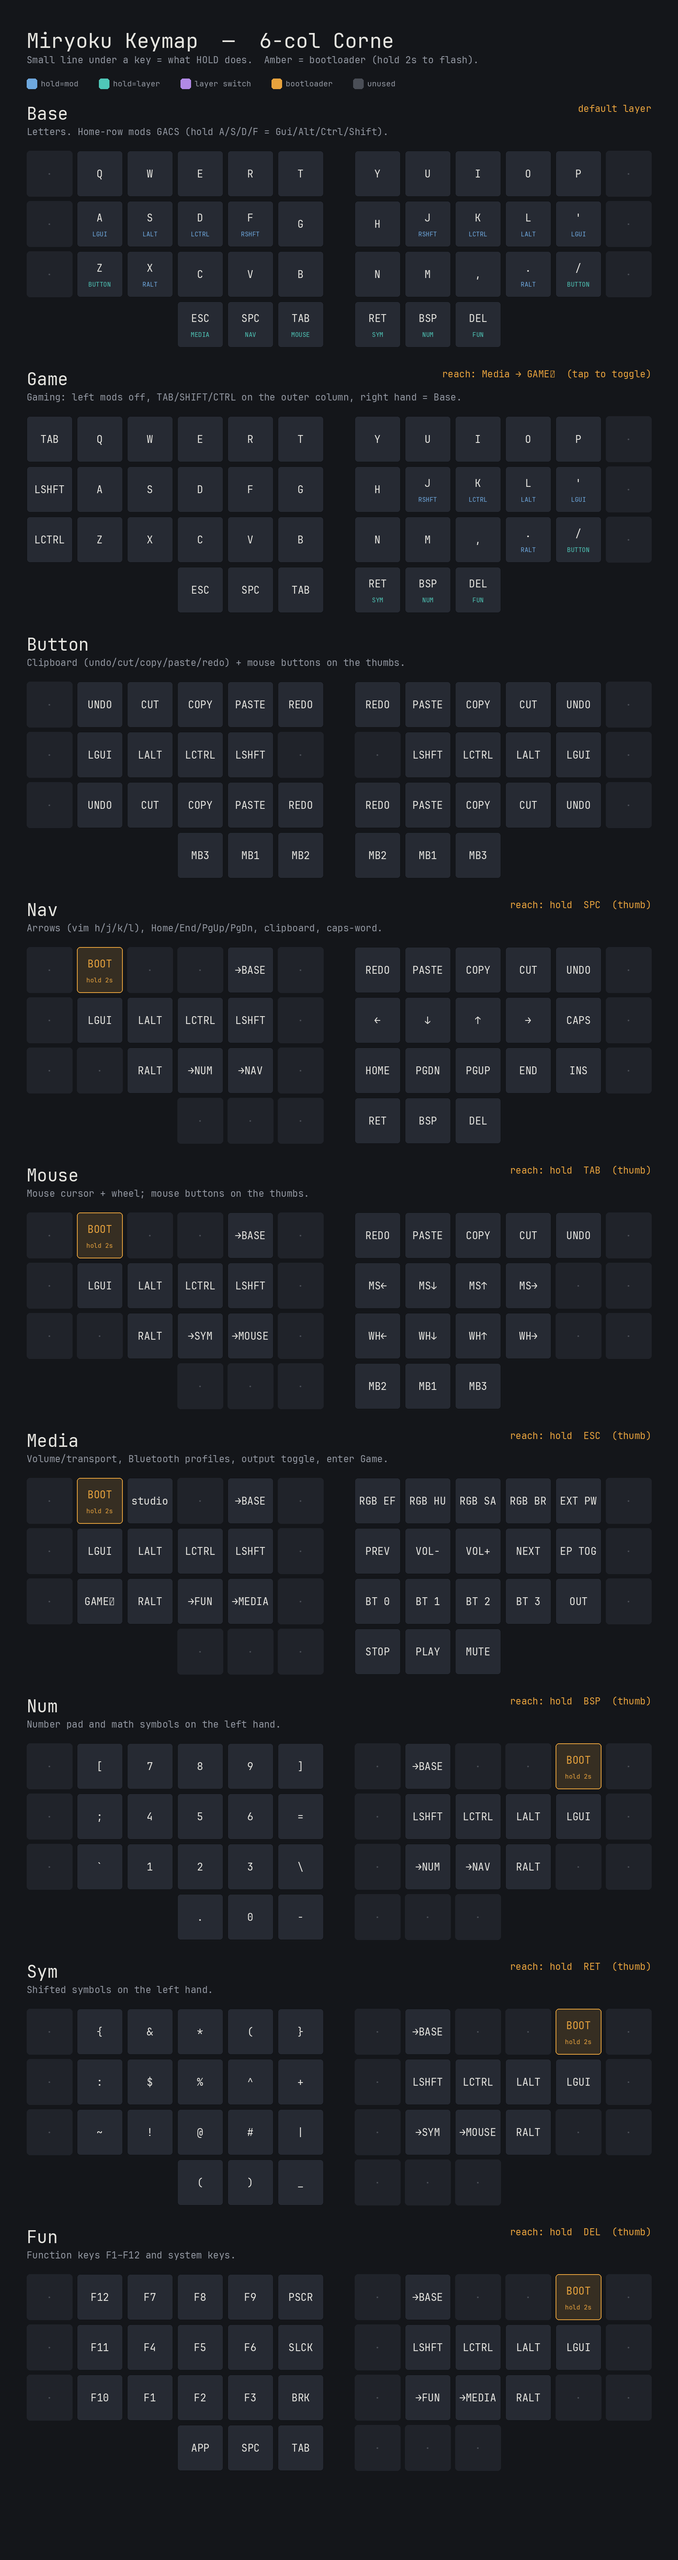
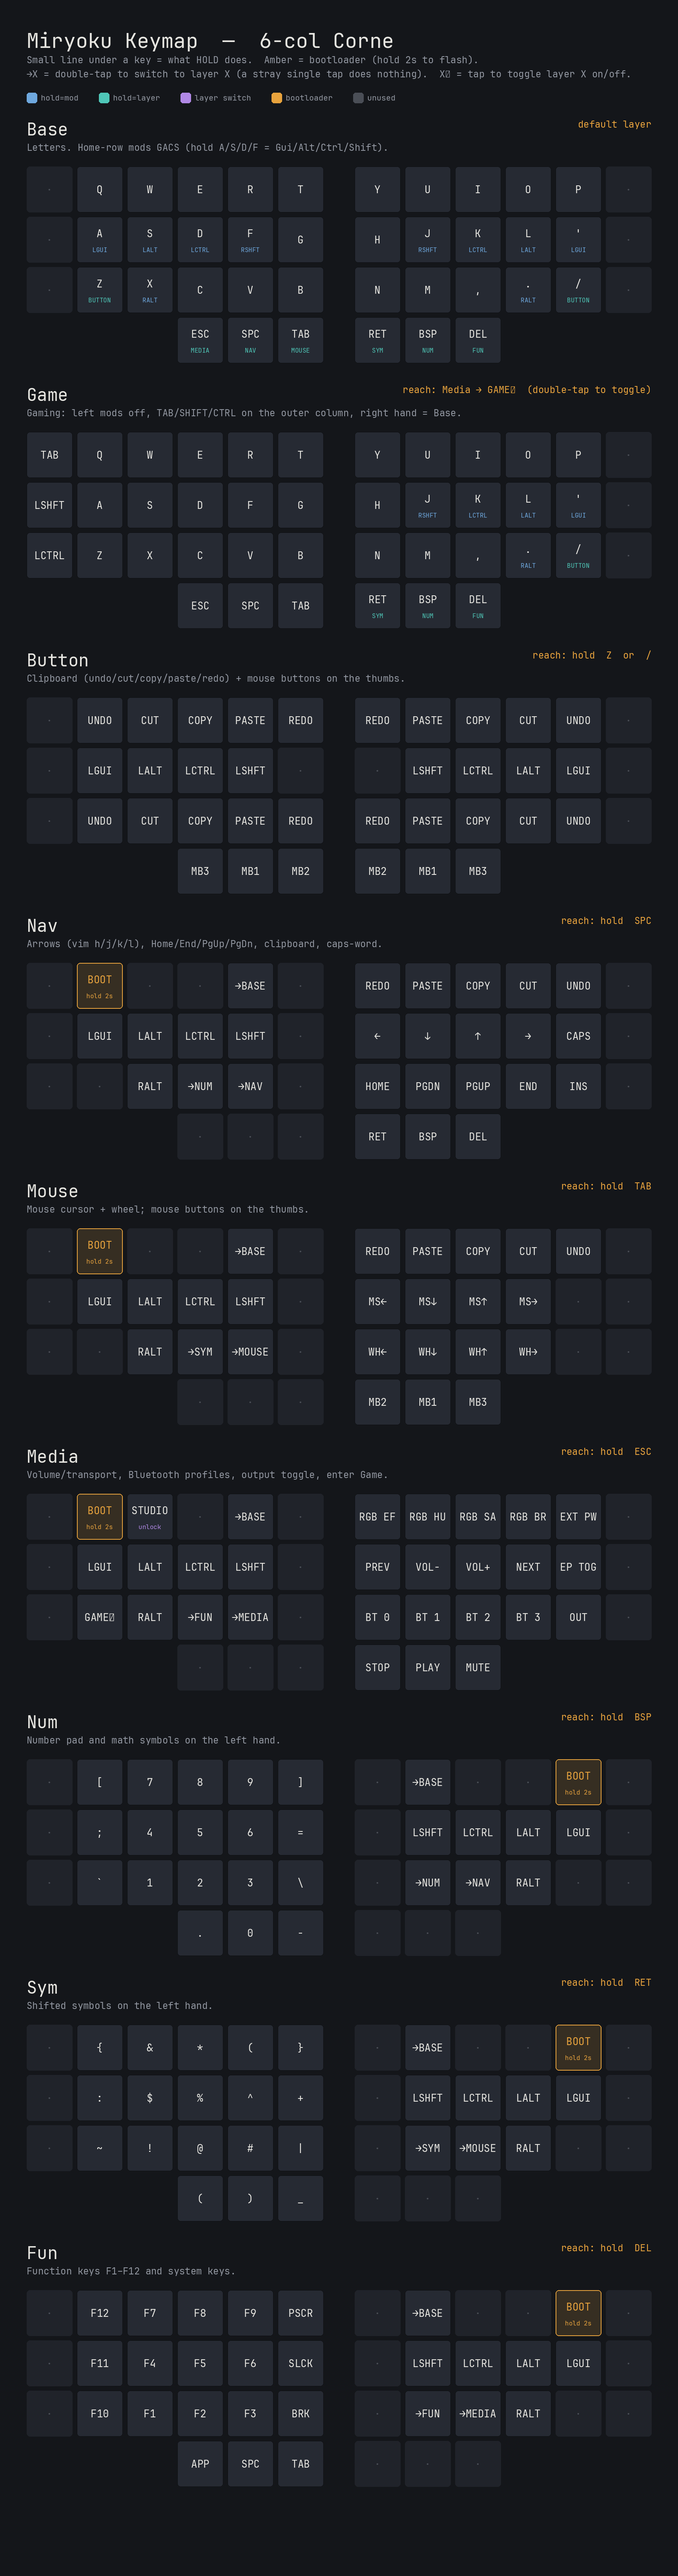
Diagram/README: explain ->X (double-tap) & X-toggle; show Button reach
base_reach now scans all Base &u_lt bindings, not just thumbs, so hold-Z/hold-/
BUTTON access shows up. Add symbol legend to the diagram and README.

diff --git a/scripts/generate_keymap_layout.py b/scripts/generate_keymap_layout.py
@@ -175,16 +175,16 @@ def tokenize(body):
     return toks
 
 def base_reach(base_toks, idx):
-    """From Base's 6 thumb bindings, map layer-index -> reaching key label.
-    Base row layout is 12+12+12+6; thumbs are the last 6 tokens."""
-    thumbs = base_toks[36:42]
+    """From every Base &u_lt binding (thumbs AND home keys like Z/SLASH),
+    map layer name -> list of keys that reach it by hold. e.g.
+    {'MEDIA': ['ESC'], 'BUTTON': ['Z', '/']}."""
     reach = {}
-    for t in thumbs:
+    for t in base_toks:
         p = t.split()
         if p and p[0] == "&u_lt":
             layer, key = p[1], p[2]
-            reach[layer] = kp_label(key)
-    return reach  # {'MEDIA': 'ESC', 'NAV': 'SPC', ...}
+            reach.setdefault(layer, []).append(kp_label(key))
+    return reach
 
 # ---------------------------------------------------------------------------
 # Drawing
@@ -260,16 +260,13 @@ def draw_layer(d, x0, y0, layer, reach, idx, fonts):
 
     # reach line (right-aligned under header)
     lname = disp.upper()
-    r = None
-    for k, v in reach.items():
-        if k == lname:
-            r = v
-    if r:
-        txt = f"reach: hold  {r}  (thumb)"
+    keys = reach.get(lname)
+    if keys:
+        txt = f"reach: hold  {'  or  '.join(keys)}"
     elif key == "base":
         txt = "default layer"
     elif key == "game":
-        txt = "reach: Media → GAME⇄  (tap to toggle)"
+        txt = "reach: Media → GAME⇄  (double-tap to toggle)"
     else:
         txt = ""
     if txt:
@@ -320,7 +317,7 @@ def main():
     bw = board_width()
     layer_h = HDR + 4 * (KEY + GAP) + 26 * s
     width = bw + 2 * PAD
-    top = PAD + 96 * s   # room for title + legend
+    top = PAD + 116 * s   # room for title + two caption lines + legend
     height = top + len(order) * layer_h + PAD
 
     img = Image.new("RGB", (int(width), int(height)), THEME["bg"])
@@ -332,8 +329,12 @@ def main():
     d.text((PAD, PAD + 34 * s),
            "Small line under a key = what HOLD does.  Amber = bootloader (hold 2s to flash).",
            font=fonts[1], fill=THEME["soft"])
+    d.text((PAD, PAD + 52 * s),
+           "→X = double-tap to switch to layer X (a stray single tap does nothing).  "
+           "X⇄ = tap to toggle layer X on/off.",
+           font=fonts[1], fill=THEME["soft"])
     # legend
-    lx, ly = PAD, PAD + 66 * s
+    lx, ly = PAD, PAD + 84 * s
     for label, col in [("hold=mod", THEME["mod"]), ("hold=layer", THEME["lt"]),
                        ("layer switch", THEME["tog"]), ("bootloader", THEME["accent"]),
                        ("unused", THEME["none_ink"])]:

diff --git a/README.md b/README.md
@@ -8,9 +8,16 @@ layout on [ZMK](https://zmk.dev), QWERTY with home-row mods.
 ![Keymap layout](keymap-diagram.png)
 
 The diagram is generated straight from [`config/corne_custom.keymap`](config/corne_custom.keymap).
-Each layer shows what it's for and which thumb reaches it; the small line under a
+Each layer shows what it's for and which key reaches it; the small line under a
 key is what **hold** does (blue = modifier, teal = layer). Amber keys enter the
 bootloader (hold 2 s).
+
+Two symbols show up inside layers:
+
+- **`→X`** — a double-tap-guarded switch: tap once and nothing happens, tap again
+  to switch to layer X. The guard stops a stray single tap from changing layers.
+- **`X⇄`** — tap once to toggle layer X on, tap again to toggle it off (used to
+  enter/leave the Game layer).
 
 Regenerate after editing the keymap:
 
@@ -23,7 +30,7 @@ python3 scripts/generate_keymap_layout.py    # needs Pillow; writes keymap-diagr
 | # | Layer  | For | Reach (hold from Base) |
 |---|--------|-----|------------------------|
 | 0 | Base   | Letters, home-row mods GACS | default |
-| 1 | Game   | Left mods off, TAB/SHIFT/CTRL on outer column | Media → `GAME⇄` |
+| 1 | Game   | Left mods off, TAB/SHIFT/CTRL on outer column | Media, double-tap `GAME⇄` |
 | 2 | Button | Clipboard + mouse buttons | hold `Z` or `/` |
 | 3 | Nav    | Arrows (vim h/j/k/l), Home/End/PgUp/PgDn | hold `SPC` |
 | 4 | Mouse  | Mouse cursor + wheel | hold `TAB` |
